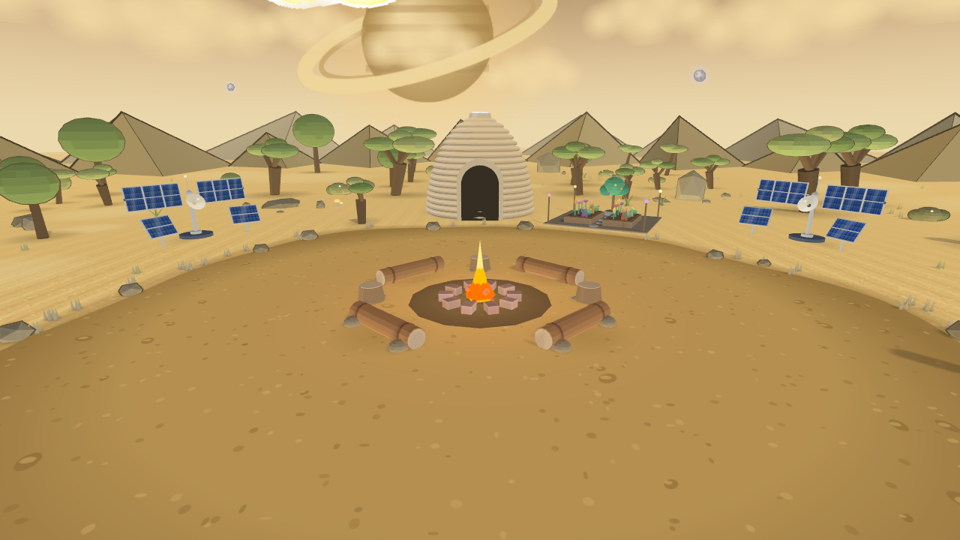
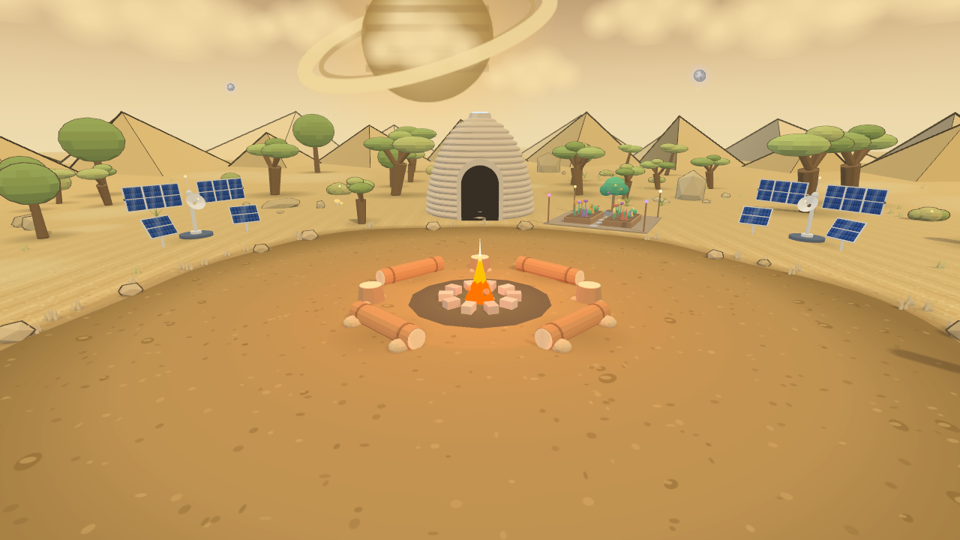
fix: luz da fogueira e normais de faces planas como no original
- queda da luz pontual igual à que o jogo original usa (a do three r128,
  (1 - d/alcance)^queda, trocada em assets/app-base.js): os troncos
  recebem o laranja da fogueira
- normal de faces com flatShading orientada pela normal do vértice: o
  sinal de cross(dpdx, dpdy) se inverte entre WGSL e GLSL e montanhas,
  pedras e o chão da fogueira eram iluminados como se virados para baixo
- medições: de 10–18 % para 0,6–4,2 % de pixels diferentes nos 6 mundos
  (PSNR 30–37 dB)

diff --git a/docs/estado-da-migracao.md b/docs/estado-da-migracao.md
@@ -29,17 +29,19 @@ com diferença maior que 24 em algum canal.
 
 | Mundo | Câmera do jogo: PSNR / pixels diferentes | Visão alta: PSNR / pixels diferentes |
 | --- | --- | --- |
-| Amazora | 27,3 dB / 5,1 % | 30,0 dB / 2,1 % |
-| Cerron | 23,8 dB / 11,1 % | 23,6 dB / 15,8 % |
-| Atlanthia | 24,3 dB / 8,3 % | 25,7 dB / 9,8 % |
-| Caatara | 23,6 dB / 18,6 % | 25,7 dB / 11,4 % |
-| Panthara | 26,1 dB / 8,6 % | 24,6 dB / 13,0 % |
-| Pamphora | 23,9 dB / 11,9 % | 22,9 dB / 17,5 % |
+| Amazora | 33,3 dB / 1,3 % | 36,6 dB / 0,6 % |
+| Cerron | 30,7 dB / 1,8 % | 32,8 dB / 2,2 % |
+| Atlanthia | 32,4 dB / 1,1 % | 36,9 dB / 0,6 % |
+| Caatara | 29,9 dB / 4,2 % | 35,3 dB / 1,0 % |
+| Panthara | 31,8 dB / 3,0 % | 31,2 dB / 4,2 % |
+| Pamphora | 33,1 dB / 2,1 % | 35,3 dB / 1,2 % |
 
 Histórico (câmera do jogo, Cerron): 39,7 % na primeira renderização → 16,7 % com domo do céu, chão e neblina em
 sRGB → 10,6 % com sombras e cores de luz lidas sem conversão (o original desliga o `THREE.ColorManagement`, então
 cores definidas por hex entram cruas no shader). Caatara: 25,9 % → 18,6 % com a mistura aditiva
-(sol e brilhos) multiplicada pelo alfa, como `AdditiveBlending` do three.js. As capturas de referência variam um
+(sol e brilhos) multiplicada pelo alfa, como `AdditiveBlending` do three.js. Depois, 1–4 % em todos os mundos com
+duas correções: a queda da luz da fogueira que o original troca pela do three r128 (`(1 − d/alcance)^queda`) e o
+sinal da normal de faces com `flatShading` (o eixo y da tela tem sentido oposto entre WGSL e GLSL). As capturas de referência variam um
 pouco entre exportações por causa da cintilação da fogueira.
 
 Para reproduzir: ver [ferramentas.md](ferramentas.md).
@@ -48,15 +50,10 @@ Para reproduzir: ver [ferramentas.md](ferramentas.md).
 
 1. **Fauna 2D, partículas e efeitos animados** (`app-life.js`, `partBuild`, chamas, brasas, água): exportados só
    como geometria parada ou ausentes. Precisam de sistemas próprios (Rhai para comportamento, Rust para desenho).
-2. **Luz da fogueira nos troncos**: no original, os troncos ficam bem mais laranja. A matemática do toon e da
-   atenuação foi conferida linha a linha com o three.js r186; falta descobrir a origem (cintilação no momento da
-   captura, brilho aditivo ou outra contribuição).
-3. **Mancha escura sob a fogueira**: a malha de sombras de contato aparece mais escura que no original perto da
-   fogueira.
-4. **Sombras**: implementadas com o mapa de sombra do Bevy (1 cascata de 32 m a partir da câmera, 2048 px), só para
-   os objetos que o original marca (`markCasters`) e os avatares. O original usa uma caixa de 28 m que segue o
-   jogador, com PCF 1024: o formato e a suavidade das bordas diferem um pouco.
-5. Pequenas diferenças de serrilhado (MSAA 4× nativo × antialias do navegador).
+2. **Chão sob a fogueira** um pouco mais escuro que no original (o círculo escuro de 2,1 m aparece levemente).
+3. **Sombras**: o mapa de sombra do Bevy (1 cascata de 32 m a partir da câmera, 2048 px) em vez da caixa de 28 m que
+   segue o jogador com PCF 1024 do original; o formato e a suavidade das bordas diferem um pouco.
+4. Pequenas diferenças de serrilhado (MSAA 4× nativo × antialias do navegador).
 
 ## O que funciona hoje
 
